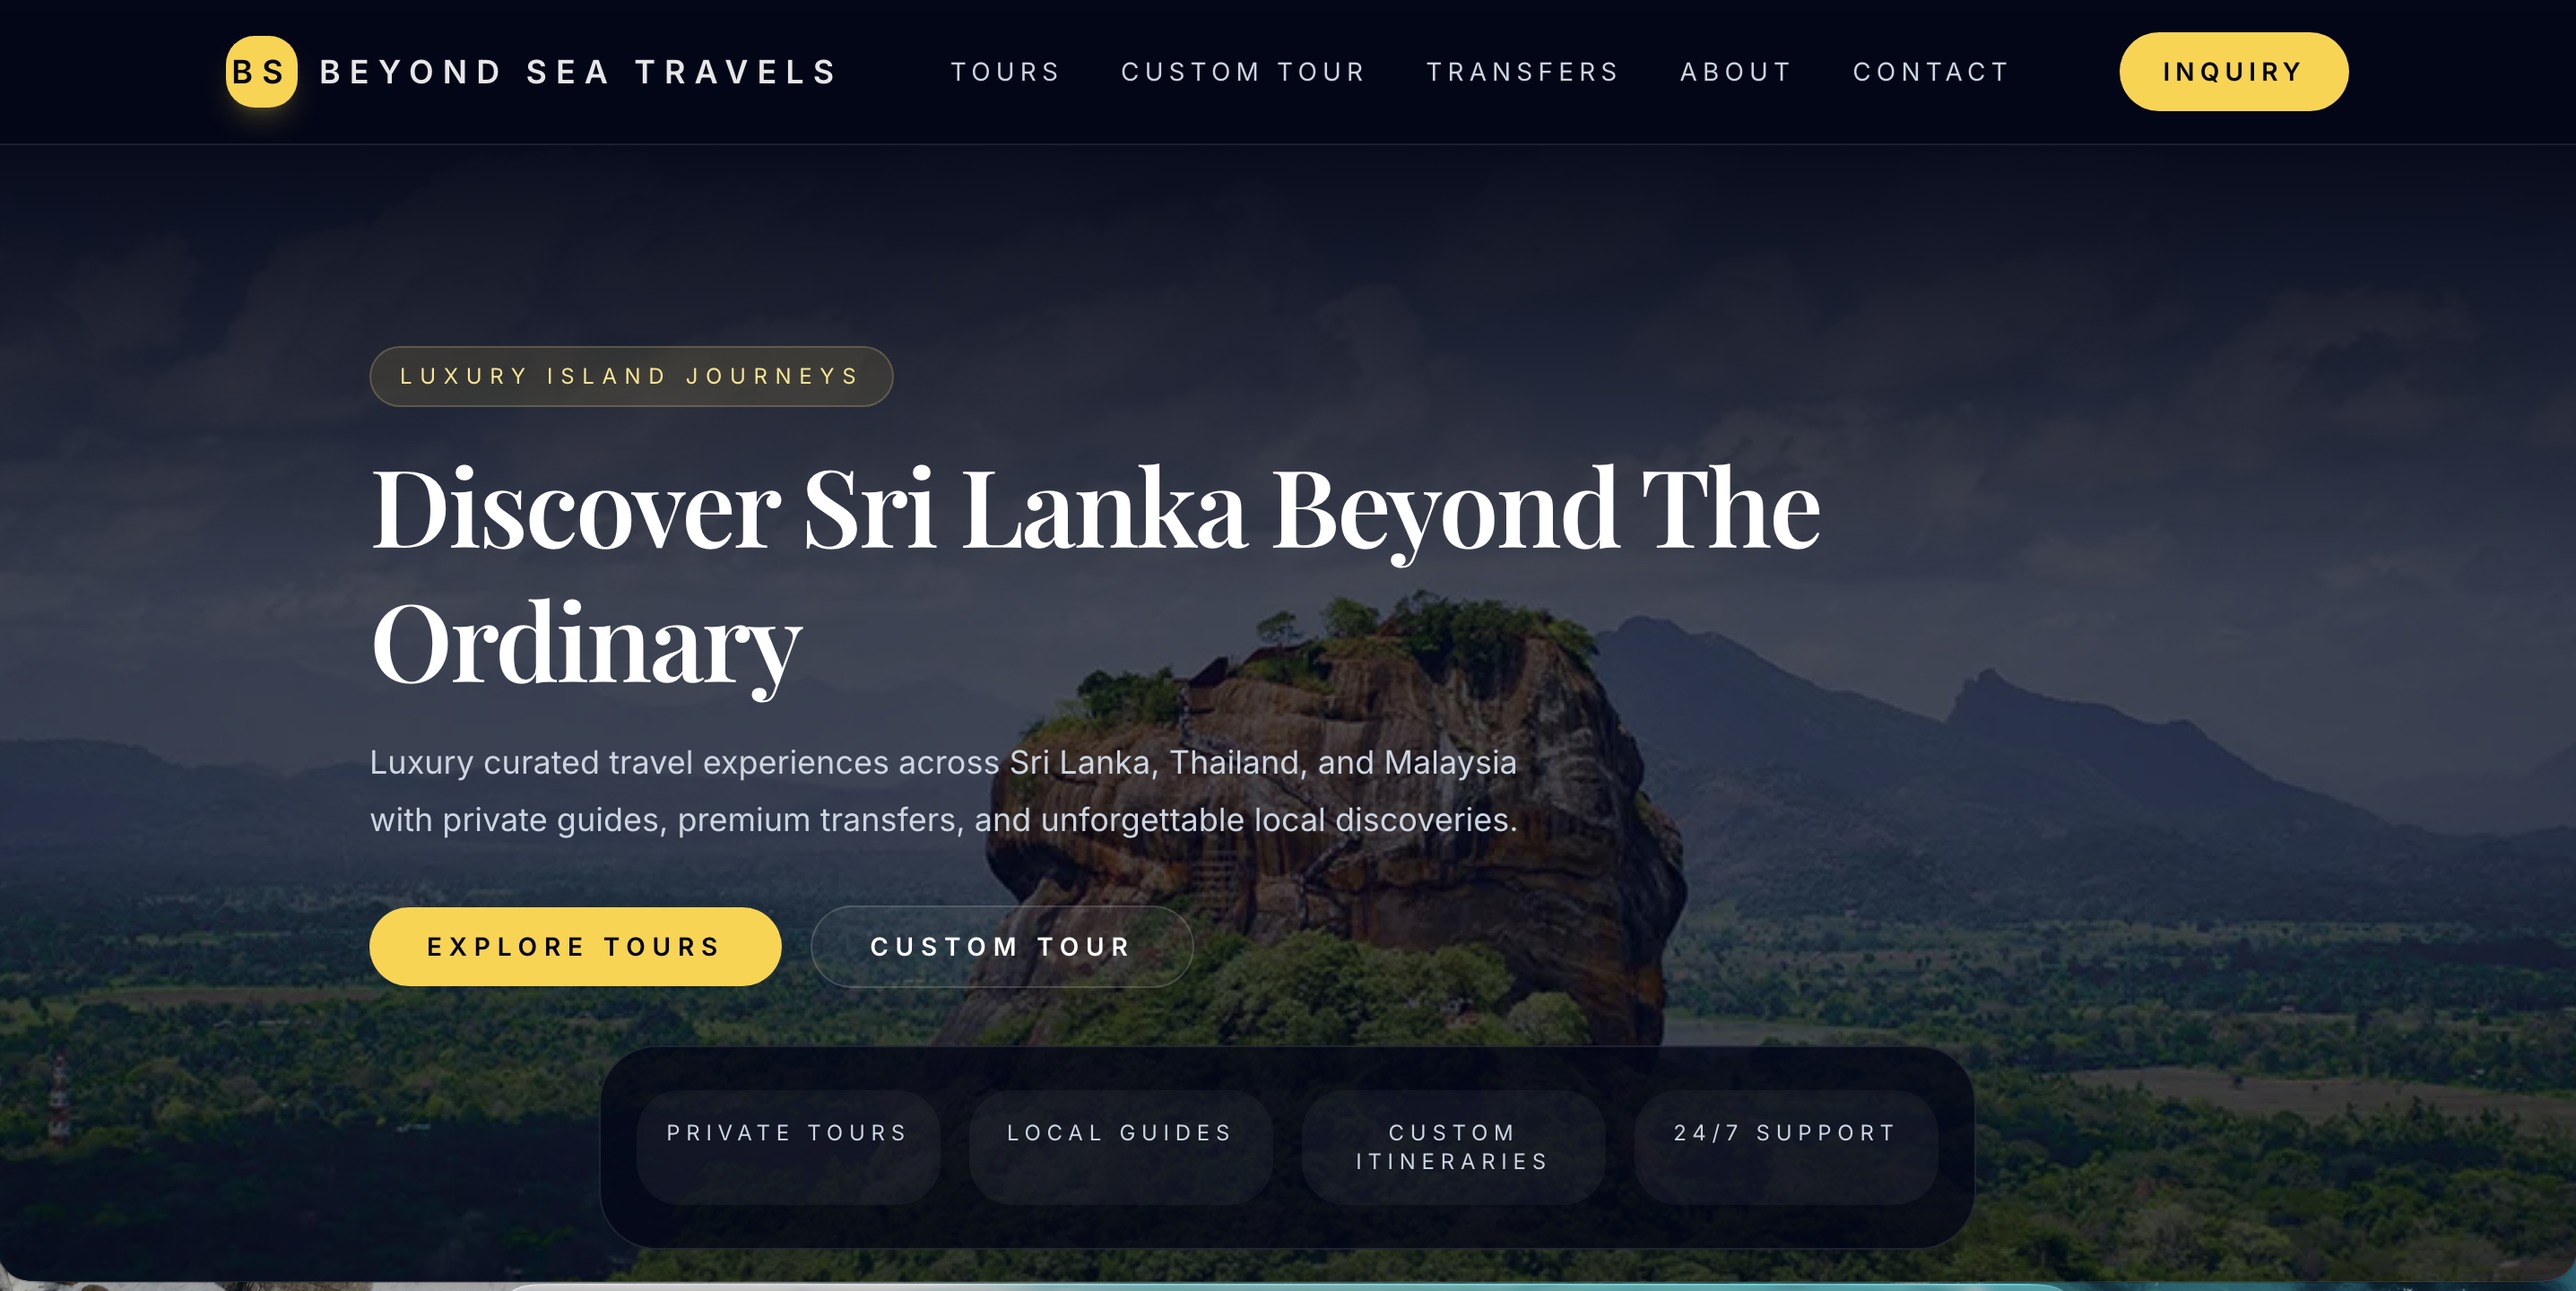
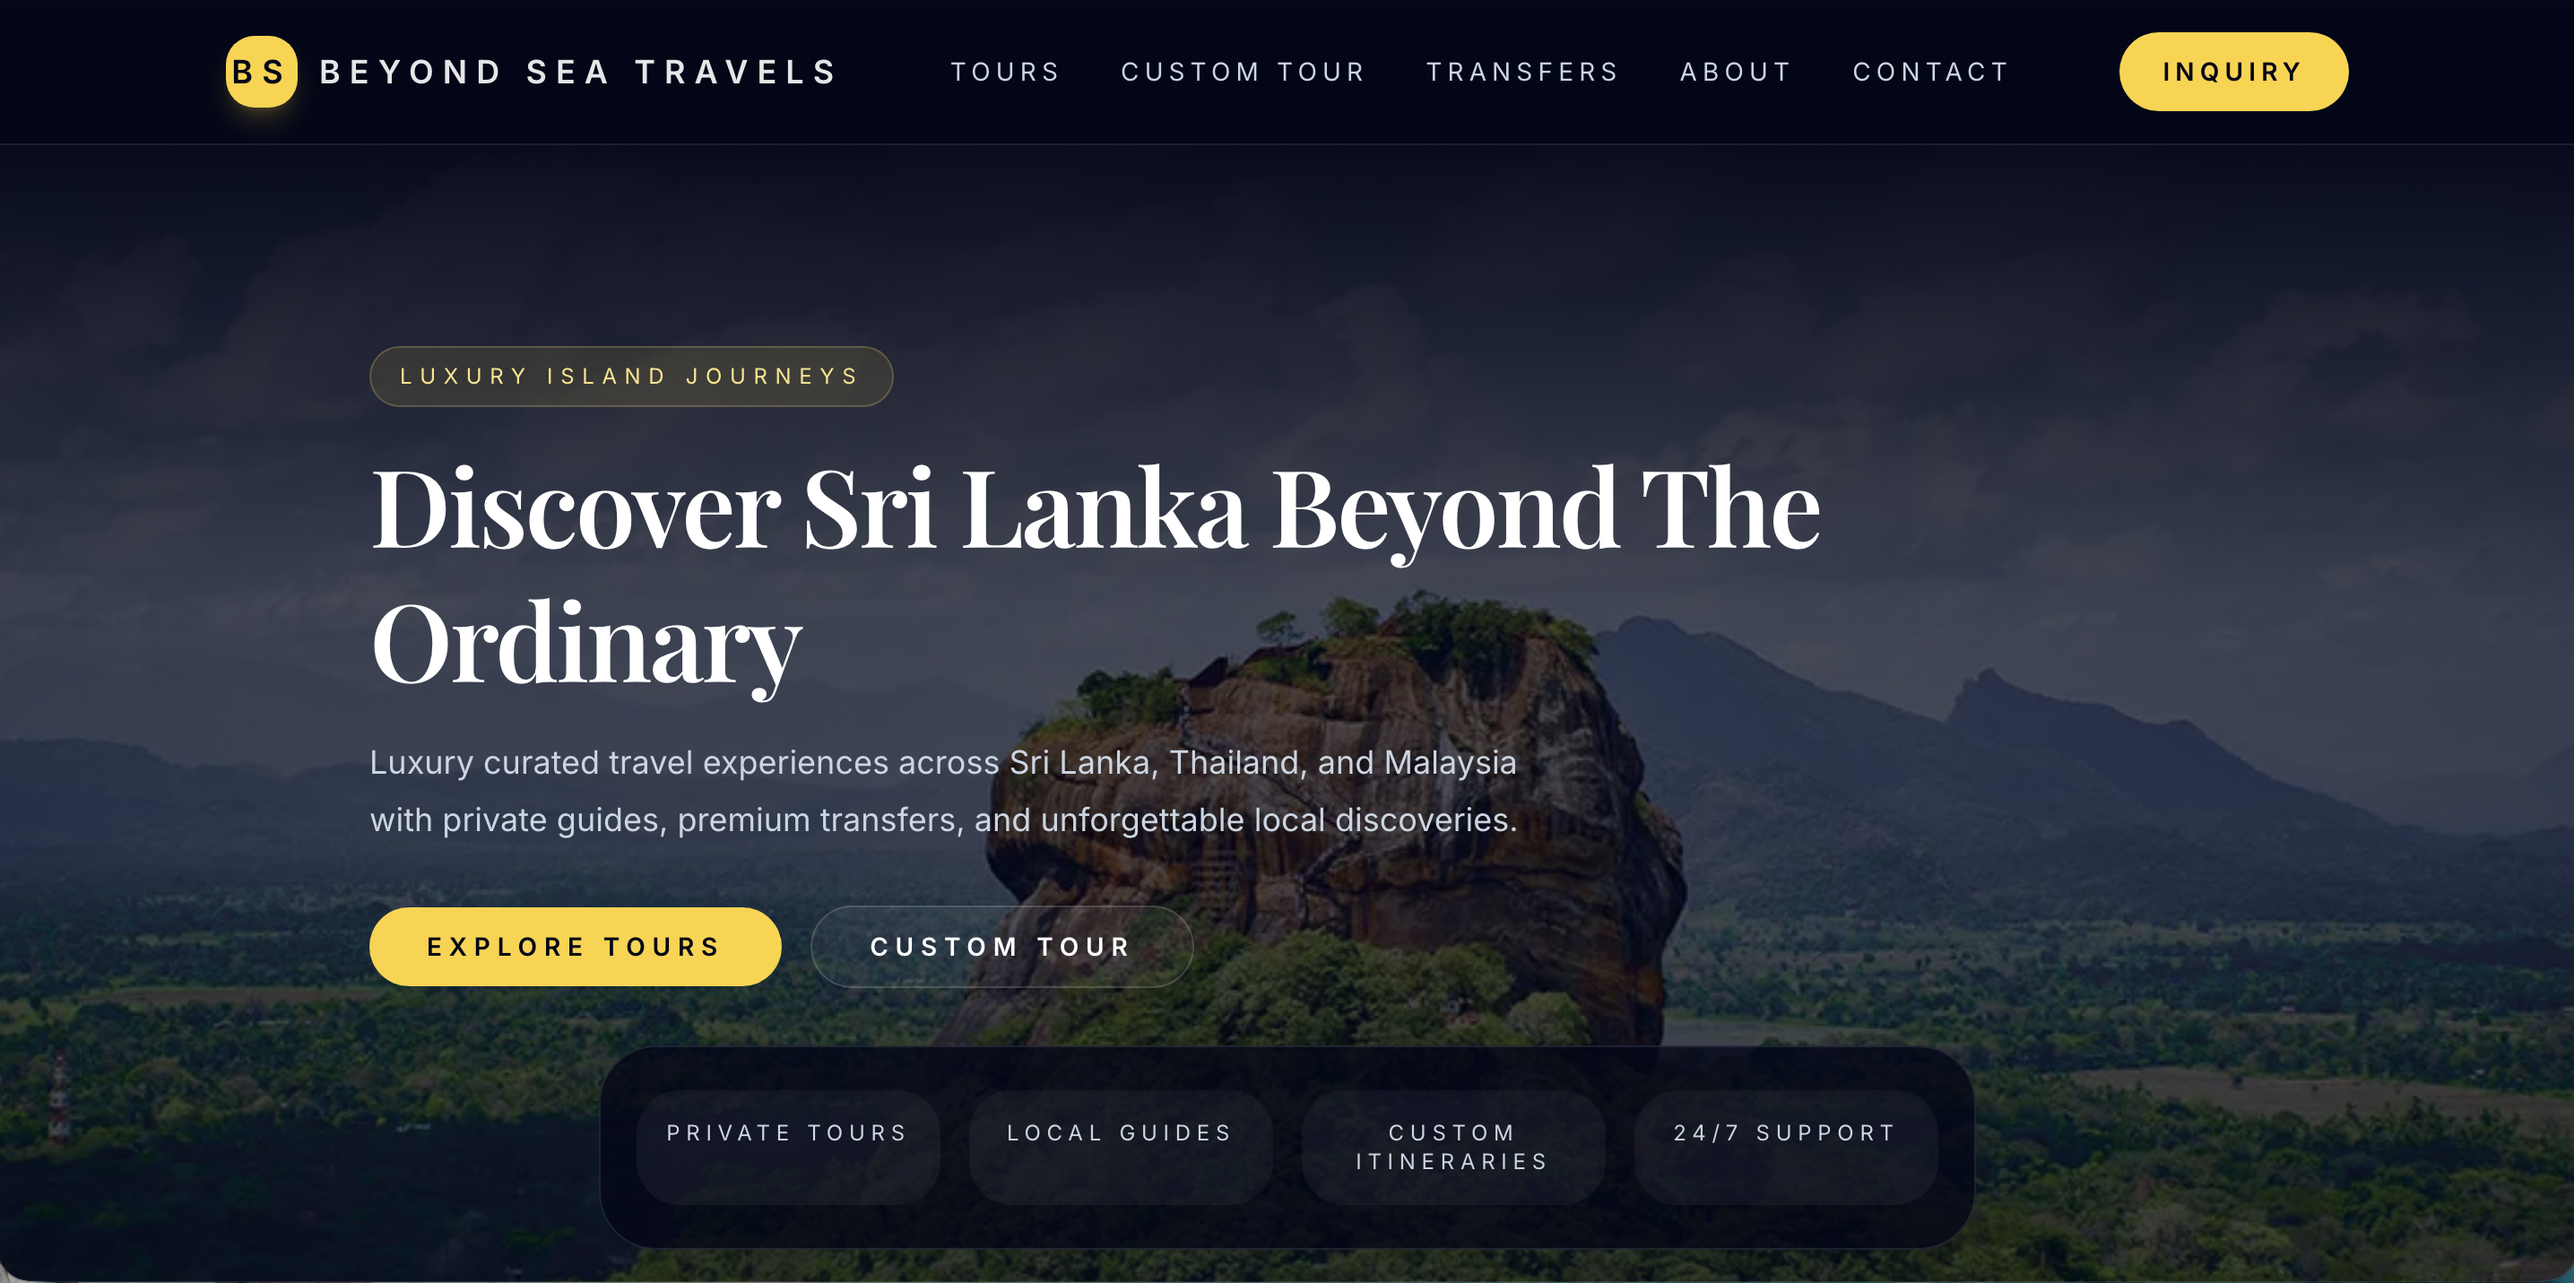
new images integrated

diff --git a/src/data/projects.js b/src/data/projects.js
@@ -10,6 +10,10 @@ import garage from "../assets/images/projects/garage.jpg";
 import gym from "../assets/images/projects/gym.jpg";
 import portfolio from "../assets/images/projects/portfolio.jpg";
 import dharmaOcean from "../assets/images/projects/dharmaocean.jpg";
+import flexifitHero from "../assets/images/projects/flexifit-hero.png";
+import automateHero from "../assets/images/projects/automate-hero.png";
+import medisysHero from "../assets/images/projects/medisys-hero.png";
+import beyondseaHero from "../assets/images/projects/Beyondsea-hero.png";
 
 const projects = [
   {
@@ -190,8 +194,8 @@ const projects = [
     role: "Frontend Engineer",
     year: 2025,
     duration: "4 months",
-    heroImage: healthMonitoring,
-    gallery: [healthMonitoring],
+    heroImage: medisysHero,
+    gallery: [medisysHero],
     tools: ["React", "JavaScript", "Bootstrap 5"],
     skills: ["Cloud", "AWS", "React"],
     features: [
@@ -217,8 +221,8 @@ const projects = [
     role: "Full Stack Developer",
     year: 2024,
     duration: "6 months",
-    heroImage: gym,
-    gallery: [gym],
+    heroImage: flexifitHero,
+    gallery: [flexifitHero],
     tools: ["Laravel", "PHP", "Livewire", , "Tailwind CSS", "MySQL", "JavaScript"],
     skills: ["Full Stack", "Laravel", "PHP"],
     features: [
@@ -247,8 +251,8 @@ const projects = [
       role: "Full Stack Developer",
       year: 2025,
       duration: "5 months",
-    heroImage: garage,
-    gallery: [garage],
+    heroImage: automateHero,
+    gallery: [automateHero],
       tools: ["Laravel", "PHP", "Tailwind CSS", "JavaScript", "PostgreSQL"],
       skills: ["Full Stack", "Laravel", "PHP"],
       features: [
@@ -362,8 +366,8 @@ const projects = [
     role: "Full Stack Developer",
     year: 2025,
     duration: "4 months",
-    heroImage: tourism,
-    gallery: [tourism],
+    heroImage: beyondseaHero,
+    gallery: [beyondseaHero],
     tools: ["Next.js", "React", "TypeScript", "Tailwind CSS", "Framer Motion", "Swiper.js"],
     skills: ["Full Stack", "Next.js", "React"],
     features: [
